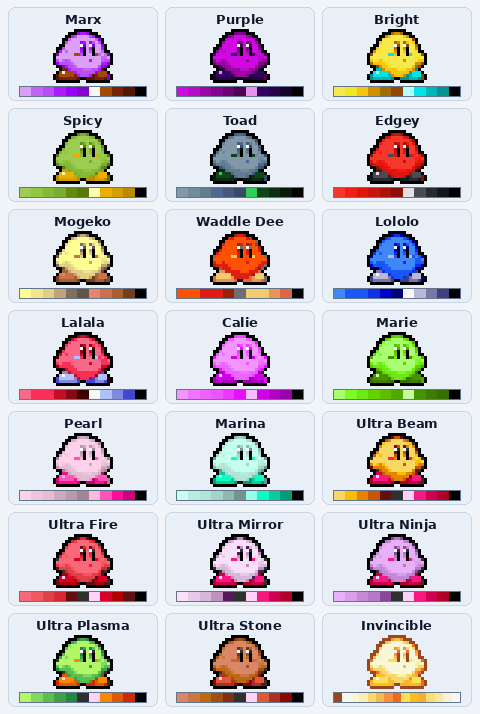
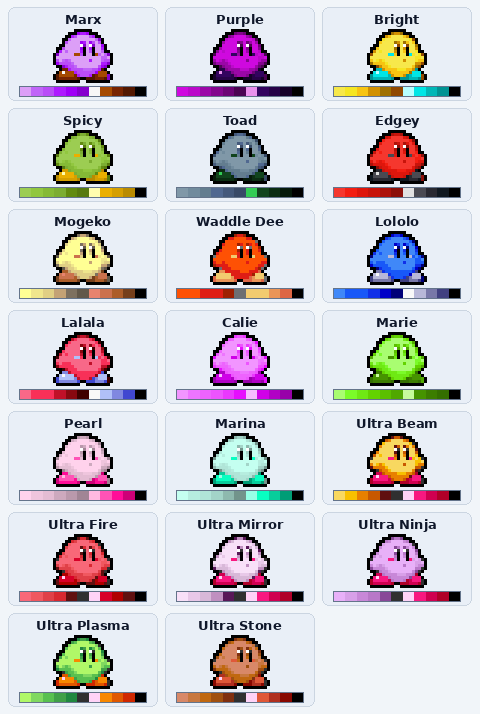
Remove the Invincible palette proposal from the gallery

Changed region(s): [[0.6875, 0.8627, 0.9688, 0.986]]

diff --git a/worlds/kirbyam/docs/color-palettes.md b/worlds/kirbyam/docs/color-palettes.md
@@ -58,14 +58,14 @@ Kirby & The Amazing Mirror:
 
 ## Proposed colors
 
-These **42 reference palettes** are not in the game and cannot be selected in YAML. The sprite mockups show how the reference swatches look on normal Kirby; they have not been implemented or checked in gameplay. Names and colors may change.
+These **41 reference palettes** are not in the game and cannot be selected in YAML. The sprite mockups show how the reference swatches look on normal Kirby; they have not been implemented or checked in gameplay. Names and colors may change.
 
 ![Kirby mockups and swatches for the first 21 proposals, Rose through Samus. The names are listed below.](color-palettes-proposals-1.png)
 
-![Kirby mockups and swatches for the remaining 21 proposals, Marx through Invincible. The names are listed below.](color-palettes-proposals-2.png)
+![Kirby mockups and swatches for the remaining 20 proposals, Marx through Ultra Stone. The names are listed below.](color-palettes-proposals-2.png)
 
 <details>
-<summary>All 42 proposed color names</summary>
+<summary>All 41 proposed color names</summary>
 
 - Rose
 - Daisy
@@ -108,7 +108,6 @@ These **42 reference palettes** are not in the game and cannot be selected in YA
 - Ultra Ninja
 - Ultra Plasma
 - Ultra Stone
-- Invincible
 
 </details>
 
